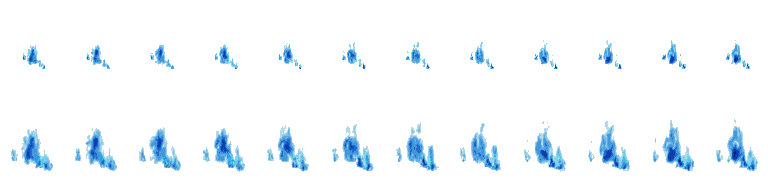
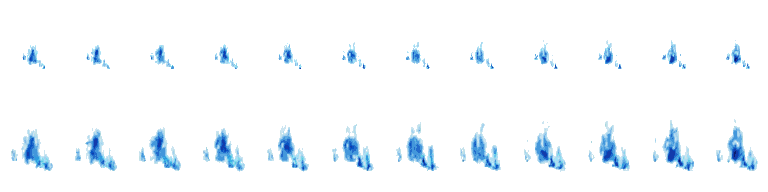
Hydralisk missil (PROBLEM)
el problema es que els missils del hydralisk i del scout son diferents
per cada direcció, he estat intenant fer el metode en el missile pero no
em funcionava be

diff --git a/Project/Motor2D/M_Missil.cpp b/Project/Motor2D/M_Missil.cpp
@@ -18,7 +18,7 @@ M_Missil::M_Missil(bool start_enabled) : j1Module(start_enabled)
 bool M_Missil::Start()
 {
 	dragoonTexture = App->tex->Load("graphics/neutral/missiles/dragbull.png");
-	hydraliskTexture = App->tex->Load("graphics/neutral/missiles/parasite.png");
+	hydraliskTexture = App->tex->Load("graphics/neutral/missiles/hydramissile.png");
 	mutaliskTexture = App->tex->Load("graphics/neutral/missiles/spores.png");
 	scoutTexture = App->tex->Load("graphics/neutral/missiles/blastcan.png");
 
@@ -145,7 +145,6 @@ void M_Missil::UpdateMissiles(float dt)
 				}
 
 
-
 				App->render->AddSprite(&(*it).missilSprite, FX);
 
 				if (it->pos.DistanceManhattan(target) < it->vel * dt)
@@ -182,57 +181,58 @@ void M_Missil::AssignByType(Num_Missil* output, MissileTypes typeOfMissile)
 	{
 	case DRAGOON_MISSILE:
 	{
-							output->missilSprite.texture = dragoonTexture;
-							output->missilSprite.position = { 0, 0, 32, 32 };
-							output->missilSprite.section = { 0, 0, 32, 32 };
-							output->nFrames = 4;
-							output->vel = 250.0f;
-							break;
+		output->missilSprite.texture = dragoonTexture;
+		output->missilSprite.position = { 0, 0, 32, 32 };
+		output->missilSprite.section = { 0, 0, 32, 32 };
+		output->nFrames = 4;
+		output->vel = 250.0f;
+		break;
 	}
 	case MUTALISK_MISSILE:
 	{
-							 output->missilSprite.texture = mutaliskTexture;
-							 output->missilSprite.position = { 0, 0, 36, 36 };
-							 output->missilSprite.section = { 0, 0, 36, 36 };
-							 output->nFrames = 10;
-							 output->vel = 200.0f;
-							 break;
+		output->missilSprite.texture = mutaliskTexture;
+		output->missilSprite.position = { 0, 0, 36, 36 };
+		output->missilSprite.section = { 0, 0, 36, 36 };
+		output->nFrames = 10;
+		output->vel = 200.0f;
+		break;
 	}
 	case SCOUT_AIR_MISSILE:
 	{
-						output->missilSprite.texture = scoutTexture;
-						output->missilSprite.position = { 0, 0, 32, 32 };
-						output->missilSprite.section = { 0, 0, 32, 32 };
-						output->directional = true;
-						output->nFrames = 1;
-						output->vel = 180.0f;
-						break;
+		output->missilSprite.texture = scoutTexture;
+		output->missilSprite.position = { 0, 0, 32, 32 };
+		output->missilSprite.section = { 0, 0, 32, 32 };
+		output->directional = true;
+		output->nFrames = 1;
+		output->vel = 180.0f;
+		break;
 	}
 	case SCOUT_MISSILE:
 	{
-						  output->missilSprite.texture = NULL;
-						  output->missilSprite.position = { 0, 0, 1, 1 };
-						  output->missilSprite.section = { 0, 0, 1, 1 };
-						  output->nFrames = 1;
-						  output->vel = 1000.0f;
-						  break;
+		output->missilSprite.texture = NULL;
+		output->missilSprite.position = { 0, 0, 1, 1 };
+		output->missilSprite.section = { 0, 0, 1, 1 };
+		output->nFrames = 1;
+		output->vel = 1000.0f;
+		break;
 	}
 	case SUNKEN_MISSILE:
 	{
-						   output->missilSprite.texture = NULL;
-						   output->missilSprite.position = { 0, 0, 1, 1 };
-						   output->missilSprite.section = { 0, 0, 1, 1 };
-						   output->nFrames = 1;
-						   output->vel = 800.0f;
-						   break;
+		output->missilSprite.texture = NULL;
+		output->missilSprite.position = { 0, 0, 1, 1 };
+		output->missilSprite.section = { 0, 0, 1, 1 };
+		output->nFrames = 1;
+		output->vel = 800.0f;
+		break;
 	}
 	case HYDRALISK_MISSILE:
 	{
-							  output->missilSprite.texture = hydraliskTexture;
-							  output->missilSprite.position = { 0, 0, 20, 20 };
-							  output->missilSprite.section = { 0, 0, 20, 20 };
-							  output->directional = true;
-							  output->vel = 150.0f;
+		output->missilSprite.texture = hydraliskTexture;
+		output->missilSprite.position = { 0, 0, 86, 122 };
+		output->missilSprite.section = { 0, 0, 86, 122 };
+		output->nFrames = 7;
+		output->directional = true;
+		output->vel = 150.0f;
 	}
 	}
 }
@@ -271,10 +271,10 @@ void M_Missil::CreateExplosion(fPoint position, MissileTypes typeOfMissile)
 	}
 	case SUNKEN_MISSILE:
 	{
-							  sunkenExplosion.position.x = position.x - sunkenExplosion.position.w / 2;
-							  sunkenExplosion.position.y = position.y - sunkenExplosion.position.h / 2;
-							  App->particles->AddParticle(sunkenExplosion, 12, 0.04f);
-							  break;
+		sunkenExplosion.position.x = position.x - sunkenExplosion.position.w / 2;
+		sunkenExplosion.position.y = position.y - sunkenExplosion.position.h / 2;
+		App->particles->AddParticle(sunkenExplosion, 12, 0.04f);
+		break;
 	}
 	case MUTALISK_MISSILE:
 	{
